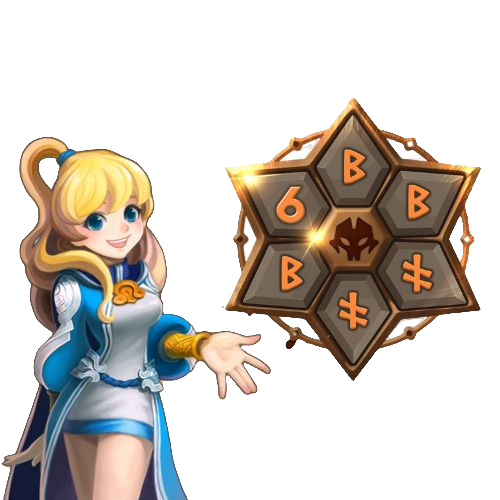
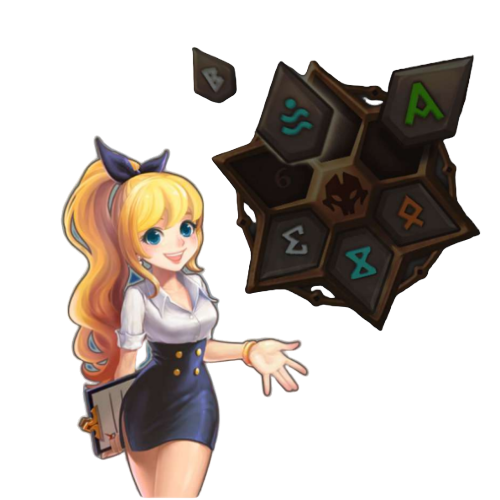
Inicio tela de serviços
Inicio da tela de serviços finalizado primeiro conjunto de itens com links funcionando

diff --git a/servico.html b/servico.html
@@ -10,8 +10,6 @@
         <link rel="preconnect" href="https://fonts.gstatic.com" crossorigin>
         <link href="https://fonts.googleapis.com/css2?family=Carter+One&family=Inter:wght@400;700&family=Poppins:wght@300;400;500;700&display=swap" rel="stylesheet">
     </head>
-
-
     <body>
         <header>
             <div class="inicio">
@@ -49,38 +47,66 @@
                 </ul>
             
             </div>
-
         </header>
 
-        <section class="divisao principal">
-            <img class="imagem__sobre" src="/clz/img/Twitch Avatar Logo (1).png">
-            <div class="sobre">
-                <h1 class="sobre__titulo">Quem sou eu?</h1>
-                <p class="texto__sobre">Meu nome é Ricardo Calazans, mais conhecido como RicardoCLZ,
-                    tenho 29 anos e moro em Jaboatão dos Guararapes-PE.
-                </p>
-                <p class="texto__sobre">Sou lider da guild Ocitocina Ranking G3, e atualmente sou streamer da Twitch e Youtuber.</p>
-                <p class="texto__sobre">Jogo Summoners War há mais de 6 anos, e assim, garanti bastante expêriencia com o jogo,
-                    principalmente nos conteúdos de Guild War (GVG) e Siege!
+        <section class="servico__torre">
+            <h1 class="titulo__servico">SERVIÇOS DE TORRE COM O DOUGLAS (PHOUSS)</h1>
+            <img class="imgtorre" src="/clz/img/toan.png">
 
-                </p>
-            </div>
-        </section>   
-        <section class="divisao principal">
-            <img class="imagem__servico" src="/clz/img/servico.png">
-            <div class="servico">
-                <h2 class="titulo__secundario">SUMMONERS WAR</h2>
-                <h2 class="titulo__secundario">GUIA DE SERVIÇOS</h2>
-                <p class="texto__padrao">Trabalho com alguns serviços como: Torre Normal/Hard/Hell, Consultoria e serviço de runas,
-                     Farm de runas e ofereço descontos 
-                     para quem é assinante do meu canal na Twitch (minimo 6 meses)</p> 
-                
-                     
+            <ul class="lista__servico">
+                <li>
+                    <h2>Torre Normal</h2>
+                    <p class="valor__servico">R$ 10,00</p>
+                    <p class="texto__servico">Clique no Icone para fazer o pedido</p>
+                    <a href="https://wa.me/+558193874114?text=Ol%C3%A1%20tenho%20interesse%20no%20servi%C3%A7o%20de%20TORRE%20NORMAL!" target="_blank" rel="noopener noreferrer">
+                        <img class="icone__servico" src="/clz/img/delivery-box.png"></a>
 
-                <p class="titulo__terceiro">Clique abaixo para conferir todas opções!</p>
-                 <a href="servico.html" class="botao">SERVIÇOS</a>
-            </div>
+                </li>
+                <li>
+                    <h2 class="titulo__lista">Torre Hard Auto</h2>
+                    <p class="valor__servico">R$ 20,00</p>
+                    <p class="texto__servico">Clique no Icone para fazer o pedido</p>
+                    <a href="https://wa.me/+558193874114?text=Ol%C3%A1%20tenho%20interesse%20no%20servi%C3%A7o%20de%20TORRE%20HARD%20AUTO!" target="_blank" rel="noopener noreferrer">
+                        <img class="icone__servico" src="/clz/img/delivery-box.png"></a>
+                    
+                    
+
+                </li>
+                <li>
+                    <h2>Torre Hard Manual</h2>
+                    <p class="valor__servico">R$ 30,00</p>
+                    <p class="texto__servico">Clique no Icone para fazer o pedido</p>
+                    <a href="https://wa.me/+558193874114?text=Ol%C3%A1%20tenho%20interesse%20no%20servi%C3%A7o%20de%20TORRE%20HARD%20MANUAL!" target="_blank" rel="noopener noreferrer">
+                        <img class="icone__servico" src="/clz/img/delivery-box.png"></a>
+                </li>
+                <li>
+                    <h2>Torre Hell 10 &#9733; </h2>
+                    <p class="valor__servico">R$ 30,00</p>
+                    <p class="texto__servico">Clique no Icone para fazer o pedido</p>
+                    <a href="https://wa.me/+558193874114?text=Ol%C3%A1%20tenho%20interesse%20no%20servi%C3%A7o%20de%20TORRE%20HELL%2010%20%E2%98%85!" target="_blank" rel="noopener noreferrer">
+                        <img class="icone__servico" src="/clz/img/delivery-box.png"></a>
+                </li>
+                <li>
+                    <h2>Torre Hell 15 &#9733;</h2>
+                    <p class="valor__servico">R$ 40,00</p>
+                    <p class="texto__servico">Clique no Icone para fazer o pedido</p>
+                    <a href="https://wa.me/+558193874114?text=Ol%C3%A1%20tenho%20interesse%20no%20servi%C3%A7o%20de%20TORRE%20HELL%2015%20%E2%98%85!" target="_blank" rel="noopener noreferrer">
+                        <img class="icone__servico" src="/clz/img/delivery-box.png"></a>
+                </li>
+                <li>
+                    <h2>Torre Hell 20 &#9733;</h2>
+                    <p class="valor__servico">R$ 50,00</p>
+                    <p class="texto__servico">Clique no Icone para fazer o pedido</p>
+                    <a href="https://wa.me/+558193874114?text=Ol%C3%A1%20tenho%20interesse%20no%20servi%C3%A7o%20de%20TORRE%20HELL%2020%20%E2%98%85!" target="_blank" rel="noopener noreferrer">
+                        <img class="icone__servico" src="/clz/img/delivery-box.png"></a>
+                </li>
+            </ul>
+
         </section>
+
+
+
+
 
         <footer>
             <img src>
@@ -88,7 +114,7 @@
 
             <ul class="lista__contato">
                 
-                    <li >
+                    <li  >
                             <a class="icone_footer d-block" href="https://api.whatsapp.com/send?phone=5512997426055&text=Ol%C3%A1%2C%20tenho%20interesse%20no%20seu%20trabalho!" target="_blank" rel="noopener noreferrer">
                             <img class="icone" src="/clz/img/whatsappfooter.png" >
                             <p>WhatsApp</p>
@@ -117,27 +143,7 @@
                     </li>  
                 </ul>
         </footer>
-
-
-
     </body>
-
-
-
-
-
-
-
-
-
-
-
-
-
-
-
-
-
 
 
 

diff --git a/styles.css b/styles.css
@@ -165,3 +165,50 @@ footer{
 }
 
 
+
+.titulo__servico {
+    margin-top: 5em;
+    text-align: center;
+    font-size: 3em;
+}
+
+.imgtorre {
+    width: 25%;
+    display: block;
+    margin-left: auto;
+    margin-right: auto
+    
+}
+.lista__servico li {
+    background-color: #6b6b6b;
+    display: inline-block;
+    text-align: center;
+    width: 30%;
+    vertical-align: top;
+    margin:  0 1.5%;
+    margin-bottom: 1.5%;
+    padding: 10px 5px;
+    box-sizing: border-box;
+    border: 3px solid #000000;
+    border-radius: 10px;
+}
+
+.lista__servico li:hover {
+    background-color: #cf5808;
+    transition: 0.5s;
+    font-size: 18px;
+}
+
+.valor__servico {
+    font-size: 30px;
+    font-weight: 500;
+}
+
+.icone__servico {
+    width: 15%;
+    text-decoration: none;
+    align-items: center;
+    margin-left: 1px;
+    text-align: center;
+}
+
